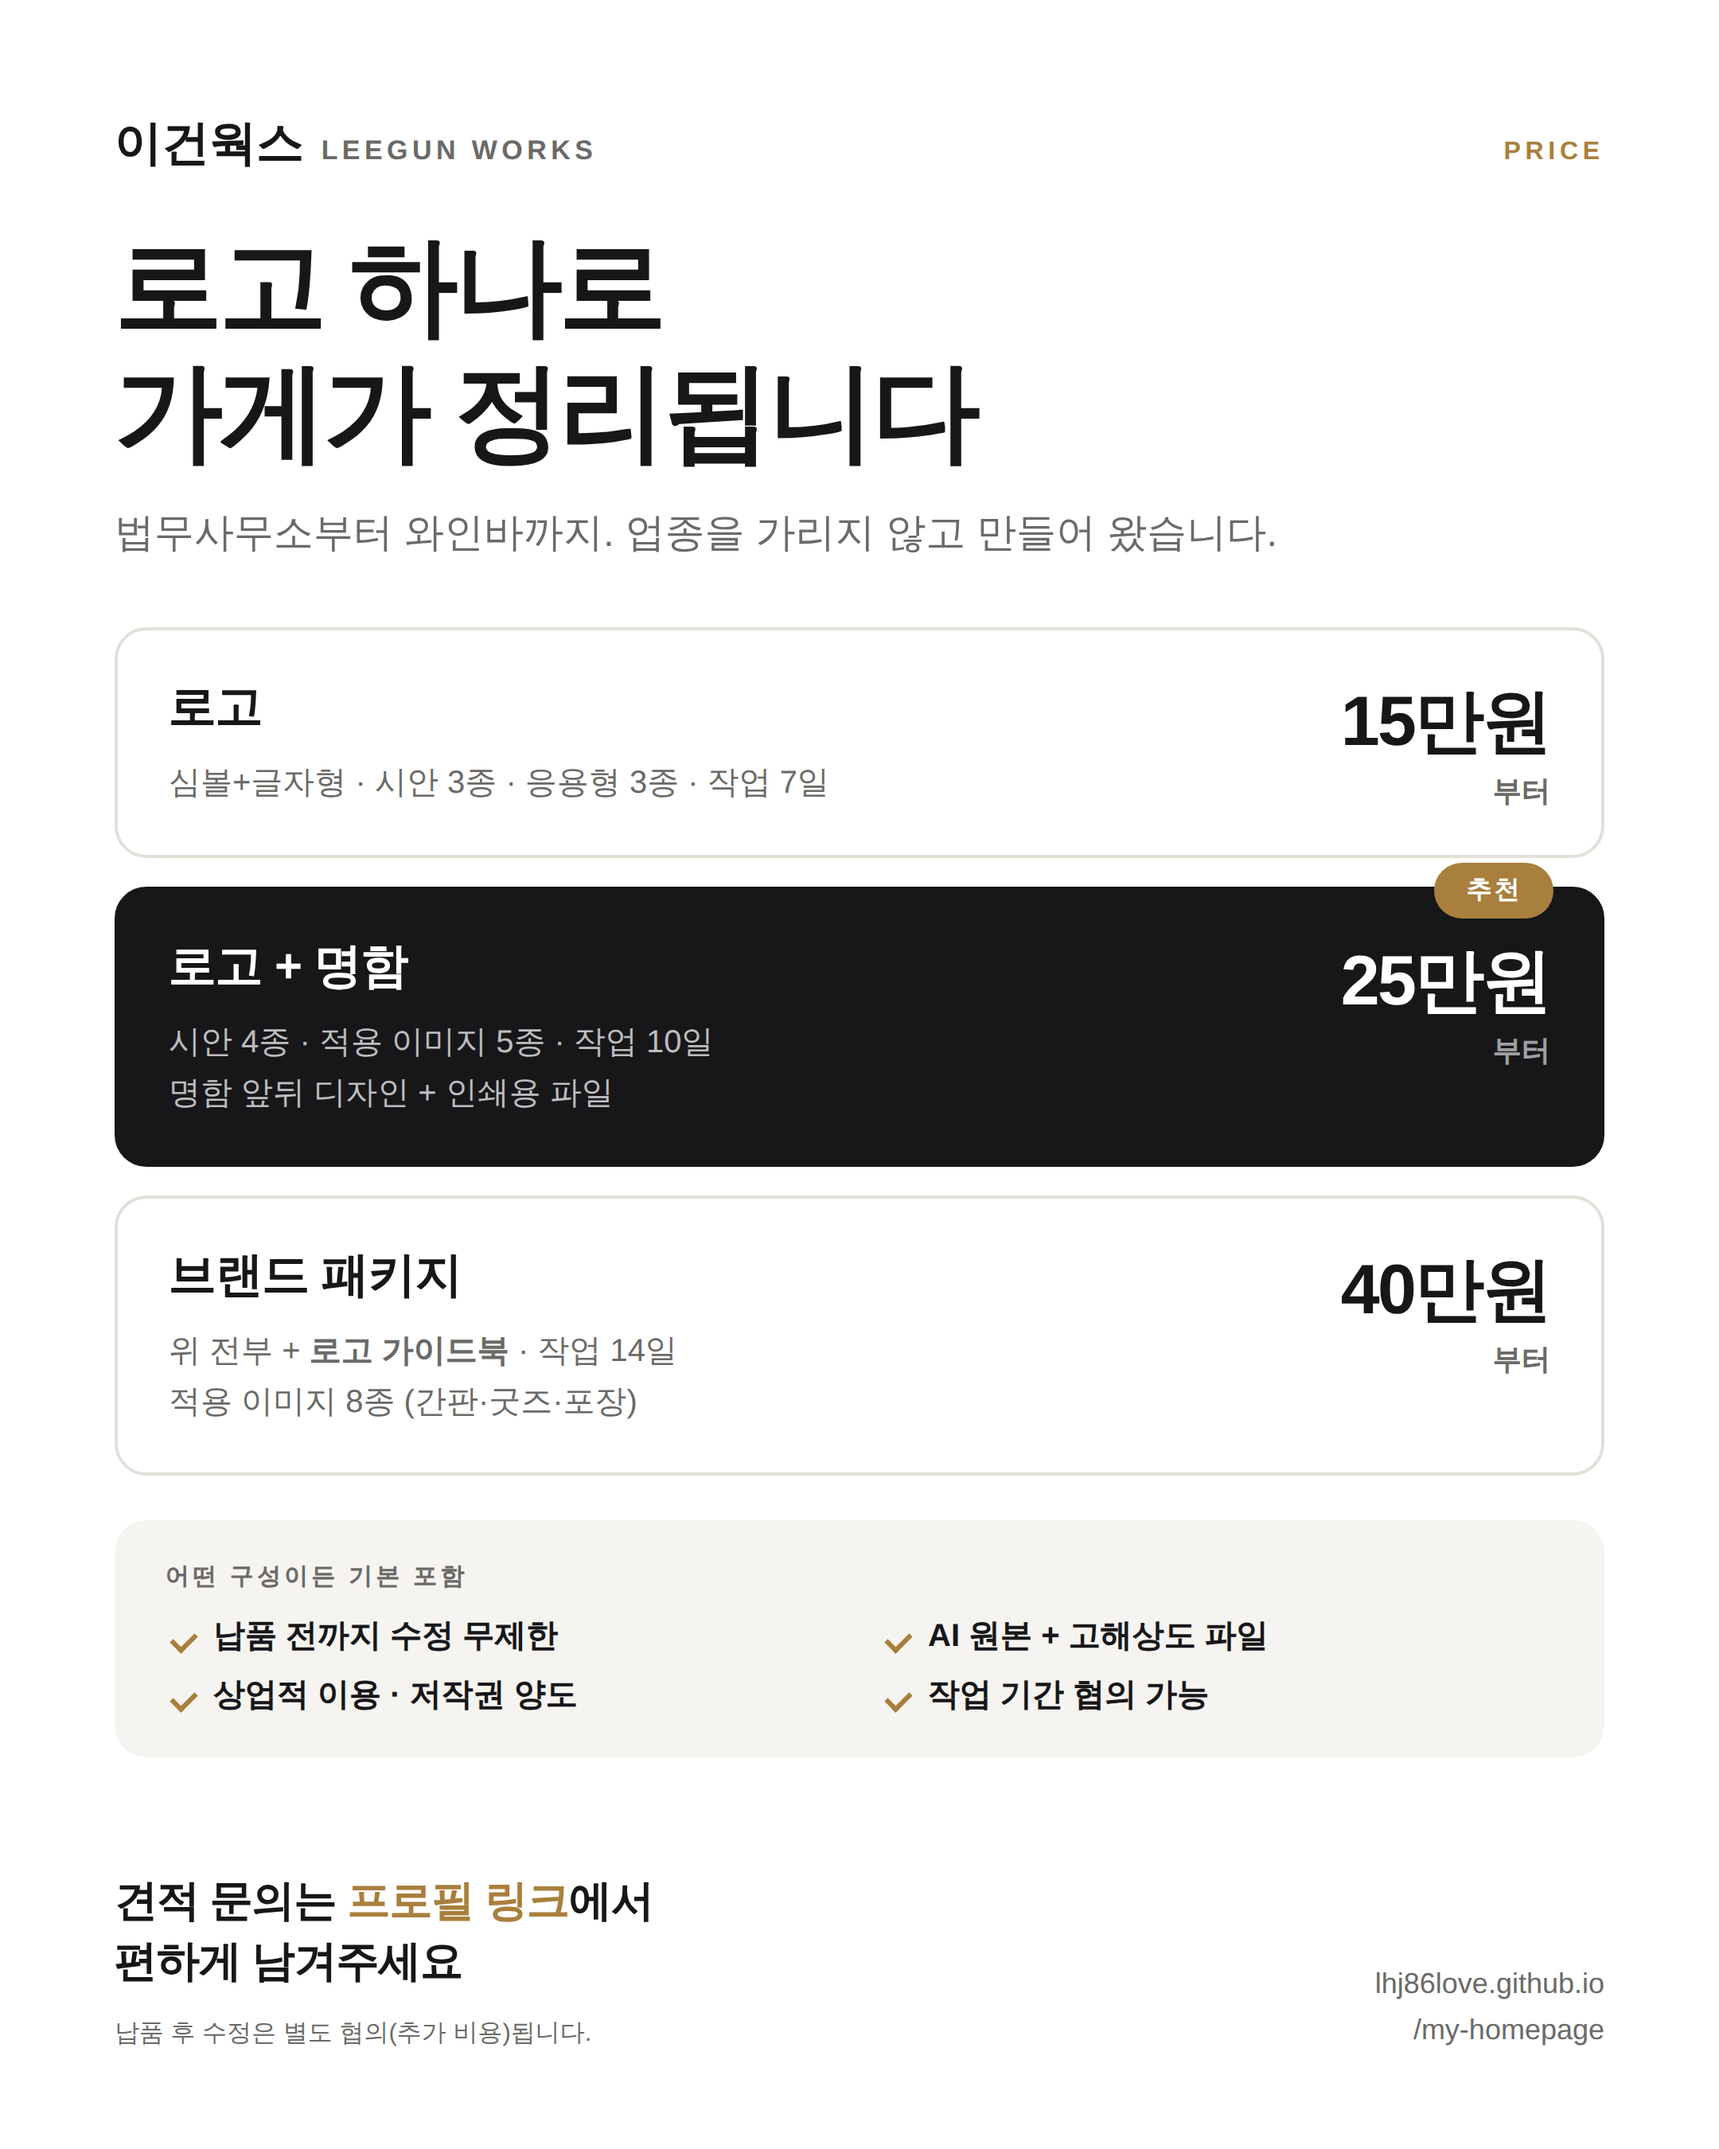
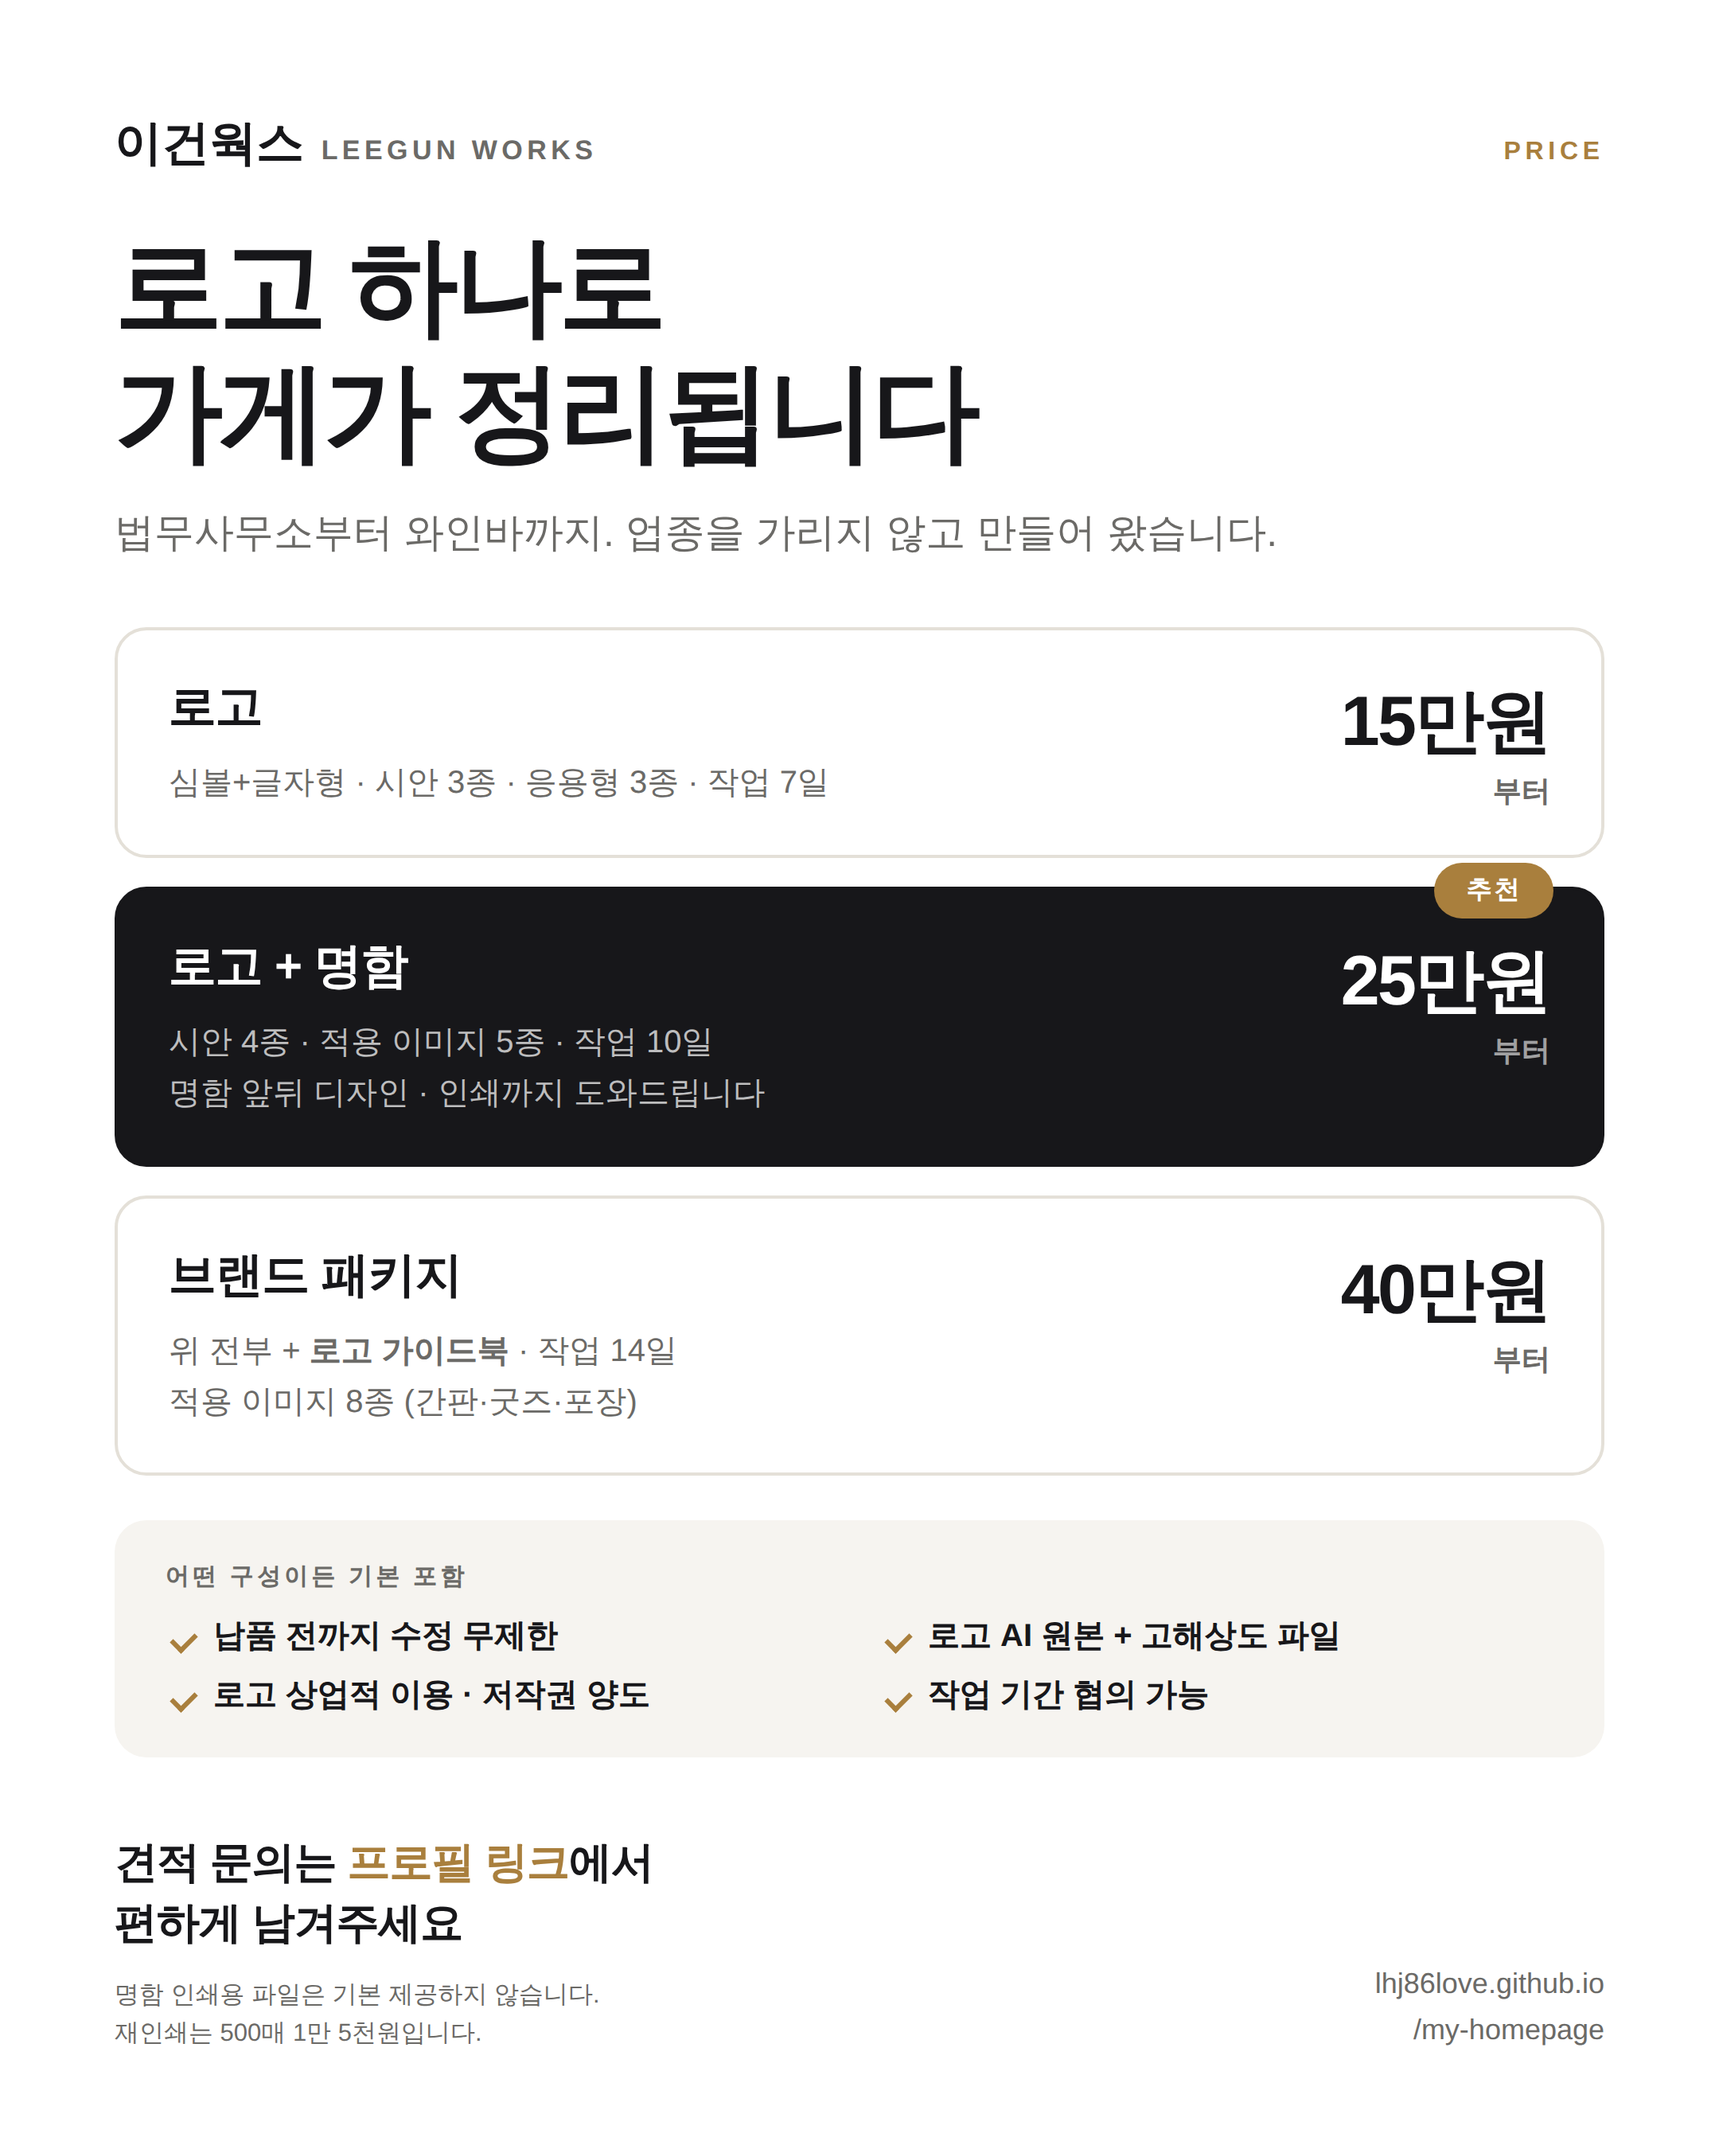
명함 파일 정책 반영 (원본 미제공, 재인쇄·파일 옵션 신설)
명함 인쇄용 파일을 기본 제공하지 않기로 하여, 표시와 실제가
어긋나던 부분을 정정하고 대체 경로를 만듦.

- 공통 항목의 "AI 원본 제공", "저작권 양도"를 로고 한정으로 명시
  (명함까지 포함되는 것처럼 읽히던 문제)
- 로고+명함 구성의 "명함 앞뒤 디자인 + 인쇄용 파일" 문구 수정
- 안내문에 명함 파일 정책과 재인쇄 단가를 명시
- 추가 옵션 신설
  · 명함 재인쇄 (500매·디자인 동일) 1만 5천원
  · 명함 인쇄용 파일 제공 3만원
- "명함이 떨어지면 또 만들어야 하나요?" 항목 추가
- SNS 가격표 이미지 2종 동일 내용으로 갱신

파일을 막아 묶는 대신, 재인쇄 단가를 낮게 두어 자발적으로
다시 찾게 하는 구조. 파일이 필요한 고객에게는 유료 옵션 제공.

Claude-Session: https://claude.ai/code/session_017k88eCwHgaHqXUauqk9q1x

diff --git a/config.js b/config.js
@@ -45,6 +45,10 @@ const SITE = {
       a: "로고 원본 파일(AI·EPS)을 주시면 그대로 넣어드립니다. 원본 없이 제가 다시 그리면 저작권 문제가 생겨서, 그 방식으로는 작업하지 않습니다.",
     },
     {
+      q: "명함이 떨어지면 또 만들어야 하나요?",
+      a: "디자인은 제가 보관합니다. 내용이 그대로면 재인쇄만 500매 1만 5천원에 해드립니다. 처음부터 다시 만드실 필요가 없습니다.",
+    },
+    {
       q: "예전에 한 번 맡겼다가 실패했어요.",
       a: "맡기기 전에 같은 업종 작업물을 먼저 보고 판단하세요. 위에 있는 작업물은 전부 실제로 납품한 결과물입니다.",
     },
@@ -87,7 +91,7 @@ const SITE = {
         "심볼 + 글자형 로고",
         "시안 4종 제안",
         "가로형·세로형·흑백 응용형",
-        "명함 앞뒤 디자인 + 인쇄용 파일",
+        "명함 앞뒤 디자인 (인쇄 진행까지 도와드립니다)",
         "적용 이미지 5종",
         "작업 10일 (협의 가능)",
       ],
@@ -108,21 +112,25 @@ const SITE = {
   /* 모든 패키지에 공통으로 들어가는 것 */
   priceCommon: [
     "납품 전까지 수정 무제한",
-    "AI 원본 + 고해상도 파일 제공",
-    "상업적 이용 가능 · 저작권 양도",
+    "로고 AI 원본 + 고해상도 파일 제공",
+    "로고 상업적 이용 가능 · 저작권 양도",
     "작업 기간 협의 가능",
   ],
 
   /* 가격표 아래에 작게 붙는 안내 */
   priceFootnote:
-    "최종 파일을 납품한 뒤의 수정은 진행하지 않습니다. " +
-    "부득이하게 필요한 경우 별도 협의 후 추가 비용이 발생할 수 있습니다. " +
-    "이미 갖고 계신 로고를 명함에 넣으실 때는 로고 원본 파일(AI·EPS)이 필요합니다. " +
-    "다른 곳에서 만든 로고를 저작권자 동의 없이 다시 그려 드리지는 않습니다.",
+    "명함 인쇄용 파일은 기본 제공하지 않습니다. 인쇄는 저를 통해 진행하시면 되고, " +
+    "디자인 변경이 없는 재인쇄는 500매 1만 5천원입니다. 파일이 필요하시면 추가 옵션으로 받으실 수 있습니다. " +
+    "로고 원본 파일은 모든 구성에 포함되며 저작권도 넘겨드립니다. " +
+    "이미 갖고 계신 로고를 명함에 넣으실 때는 그 로고의 원본 파일(AI·EPS)이 필요합니다. " +
+    "다른 곳에서 만든 로고를 저작권자 동의 없이 다시 그려 드리지는 않습니다. " +
+    "최종 납품 후의 수정은 진행하지 않으며, 부득이한 경우 별도 협의 후 추가 비용이 발생할 수 있습니다.",
 
   /* 추가 옵션 */
   priceOptions: [
     { name: "명함만 따로 (인쇄 포함)", price: "8만원부터" },
+    { name: "명함 재인쇄 (500매 · 디자인 동일)", price: "1만 5천원" },
+    { name: "명함 인쇄용 파일 제공", price: "3만원" },
     { name: "약도 제작", price: "+2만원" },
     { name: "그림·일러스트 삽입", price: "+1만 5천원부터" },
     { name: "급행 (기간 단축)", price: "+5만원" },

diff --git a/sns/가격표-이미지-원본.html b/sns/가격표-이미지-원본.html
@@ -128,7 +128,7 @@
       <span class="badge">추천</span>
       <div class="t-left">
         <p class="t-name">로고 + 명함</p>
-        <p class="t-items">시안 4종 · 적용 이미지 5종 · 작업 10일<br>명함 앞뒤 디자인 + 인쇄용 파일</p>
+        <p class="t-items">시안 4종 · 적용 이미지 5종 · 작업 10일<br>명함 앞뒤 디자인 · 인쇄까지 도와드립니다</p>
       </div>
       <p class="t-price">25만원<small>부터</small></p>
     </div>
@@ -146,8 +146,8 @@
     <p class="common-label">어떤 구성이든 기본 포함</p>
     <ul>
       <li>납품 전까지 수정 무제한</li>
-      <li>AI 원본 + 고해상도 파일</li>
-      <li>상업적 이용 · 저작권 양도</li>
+      <li>로고 AI 원본 + 고해상도 파일</li>
+      <li>로고 상업적 이용 · 저작권 양도</li>
       <li>작업 기간 협의 가능</li>
     </ul>
   </div>
@@ -155,7 +155,7 @@
   <div class="foot">
     <div>
       <p class="cta">견적 문의는 <em>프로필 링크</em>에서<br>편하게 남겨주세요</p>
-      <p class="note">납품 후 수정은 별도 협의(추가 비용)됩니다.</p>
+      <p class="note">명함 인쇄용 파일은 기본 제공하지 않습니다.<br>재인쇄는 500매 1만 5천원입니다.</p>
     </div>
     <p class="site">lhj86love.github.io<br>/my-homepage</p>
   </div>
@@ -184,7 +184,7 @@
       <span class="badge">추천</span>
       <div class="t-left">
         <p class="t-name">로고 + 명함</p>
-        <p class="t-items">시안 4종 · 명함 앞뒤 + 인쇄용 파일</p>
+        <p class="t-items">시안 4종 · 명함 앞뒤 디자인 포함</p>
       </div>
       <p class="t-price">25만원<small>부터</small></p>
     </div>
@@ -202,8 +202,8 @@
     <p class="common-label">어떤 구성이든 기본 포함</p>
     <ul>
       <li>납품 전까지 수정 무제한</li>
-      <li>AI 원본 + 고해상도 파일</li>
-      <li>상업적 이용 · 저작권 양도</li>
+      <li>로고 AI 원본 + 고해상도 파일</li>
+      <li>로고 상업적 이용 · 저작권 양도</li>
       <li>작업 기간 협의 가능</li>
     </ul>
   </div>
